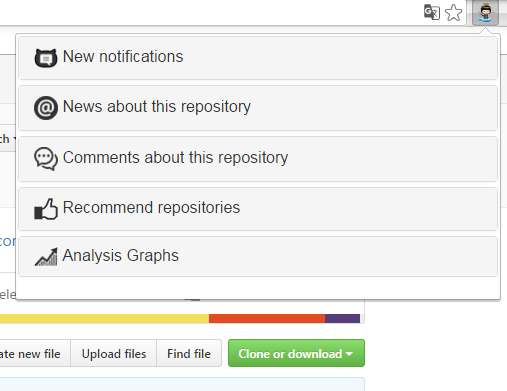
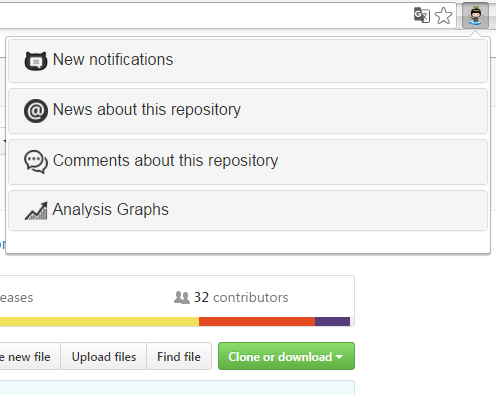
finish

diff --git a/Source_Code/Introduction/index.html b/Source_Code/Introduction/index.html
@@ -59,7 +59,6 @@
          <ul id="nav" class="nav">
             <li><a class="smoothscroll" href="#features">总体概览</a></li>
 	         <li><a class="smoothscroll" href="#pricing">新闻评价</a></li>
-            <li><a class="smoothscroll" href="#screenshots">项目推荐</a></li>
             <li><a class="smoothscroll" href="#graphs">图表分析</a></li>
             <li><a class="smoothscroll" href="#subscribe">Gitmining</a></li>
             <li><a class="smoothscroll" href="#testimonials">关于我们</a></li>
@@ -124,7 +123,7 @@
             </div>
          </div>
 
-         <div class="seven column feature-media left " style="background:rgb(150,150,150)">
+         <div class="seven column feature-media left " style="background:rgb(150,150,150);text-align: center">
             <img src="images/watch.png" alt="" style="padding-top:8px" class="watch-img"/>
             <img src="images/star.png" alt="" class="watch-img"/>
             <img src="images/fork.png" alt="" class="watch-img"/>
@@ -136,18 +135,18 @@
 
          <div class="six columns left">
             <div class="row section-head">
-               <h1>通知、仓库新闻、码友评论、仓库推荐、图表分析</h1>
+               <h1>通知、仓库新闻、码友评论、图表分析</h1>
 
                <p>
-                  插件弹出框的五大组成部分，包括用户订阅仓库后，仓库更新的通知、有关该仓库
-                  在各个开源社区的版本发布或者讨论新闻、该仓库收到的评论、根据该仓库对用户
-                  进行相关项目推荐、对该仓库的数据分析图表。
+                  插件弹出框的四大组成部分，包括用户订阅仓库后，仓库更新的通知、有关该仓库
+                  在各个开源社区的版本发布或者讨论新闻、该仓库收到的评论、对该仓库的数据分
+                  析图表。
                </p>
             </div>
          </div>
 
-         <div class="six columns feature-media right" style="background: rgb(150,150,150)">
-            <img src="images/wholly.png" style="padding-top:5px;width:507px;height:396px" alt="" />
+         <div class="six columns feature-media right" style="background: rgb(150,150,150);text-align: center">
+            <img src="images/wholly.png" style="padding-top:5px;width:496px;height:400px" alt="" />
          </div>
 
       </div>
@@ -187,23 +186,6 @@
 
 
 
-   <!-- Screenshots
-   ================================================== -->
-   <section id="screenshots">
-
-      <div class="row section-head">
-
-         <h1>项目推荐</h1>
-
-         <p>对用户订阅的仓库进行机器学习和数据挖掘，在github的全部仓库中挑选
-            最适合该用户、该用户最可能感兴趣的仓库进行推荐
-         </p>
-
-      </div>
-
-
-   </section> <!-- Screenshots End -->
-
    <section id='graphs'>
       <div class="row section-head">
 
@@ -215,17 +197,16 @@
 
          <div class="six columns right">
             <div class="row section-head">
-               <h1>watch数、star数、fork数全局比较, subscribe跟踪项目进行</h1>
+               <h1>仓库开发语言统计图</h1>
 
-               <p>对于每一个用户打开的仓库，计算其在整体数据中的地位，
-                  让用户对于该仓库所处水平有一个整体感知。提供subscribe选择，
-                  用户订阅后，利用cookies存储，跟踪项目进展动态
+               <p>对于该仓库使用的语言进行统计，不同的仓库可能使用多种语言开发，
+                  确保用户了解所浏览项目开发语言的构成对于用户选择项目很有必要。
                </p>
             </div>
          </div>
 
-         <div class="six columns feature-media left" style="background:rgb(150,150,150)">
-            <img src="images/language.png" alt="" style="padding-top:5px;width:482px;height:428px"/>
+         <div class="six columns feature-media left" style="background:rgb(150,150,150);text-align: center">
+            <img src="images/language.png" alt="" style="padding-top:5px;width:407px;height:385px"/>
          </div>
 
       </div>
@@ -234,18 +215,17 @@
 
          <div class="six columns left">
             <div class="row section-head">
-               <h1>通知、仓库新闻、码友评论、仓库推荐、图表分析</h1>
+               <h1>Popularity,Contributor分析图</h1>
 
                <p>
-                  插件弹出框的五大组成部分，包括用户订阅仓库后，仓库更新的通知、有关该仓库
-                  在各个开源社区的版本发布或者讨论新闻、该仓库收到的评论、根据该仓库对用户
-                  进行相关项目推荐、对该仓库的数据分析图表。
+                  对该仓库在github整体仓库中的流行度进行分析并给出具体的百分数，同时根据该仓库的
+                  活跃程度对其contributor进行排名分析
                </p>
             </div>
          </div>
 
-         <div class="six columns feature-media right" style="background: rgb(150,150,150)">
-            <img src="images/language.png" style="padding-top:5px;width:482px;height:428px" alt="" />
+         <div class="six columns feature-media right" style="background: rgb(150,150,150);text-align: center">
+            <img src="images/popularity.png" style="padding-top:5px;width:460px;height:393px;" alt="" />
          </div>
 
       </div>
